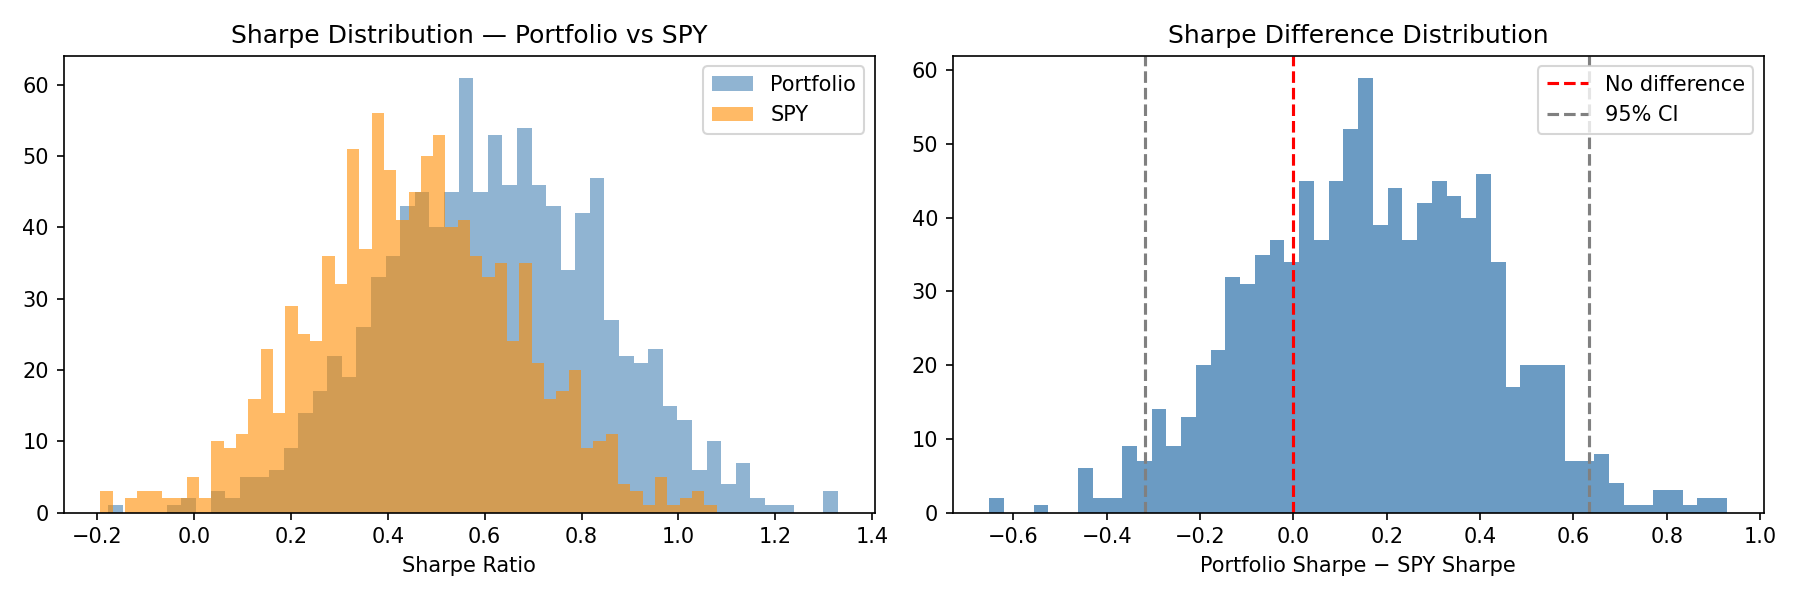
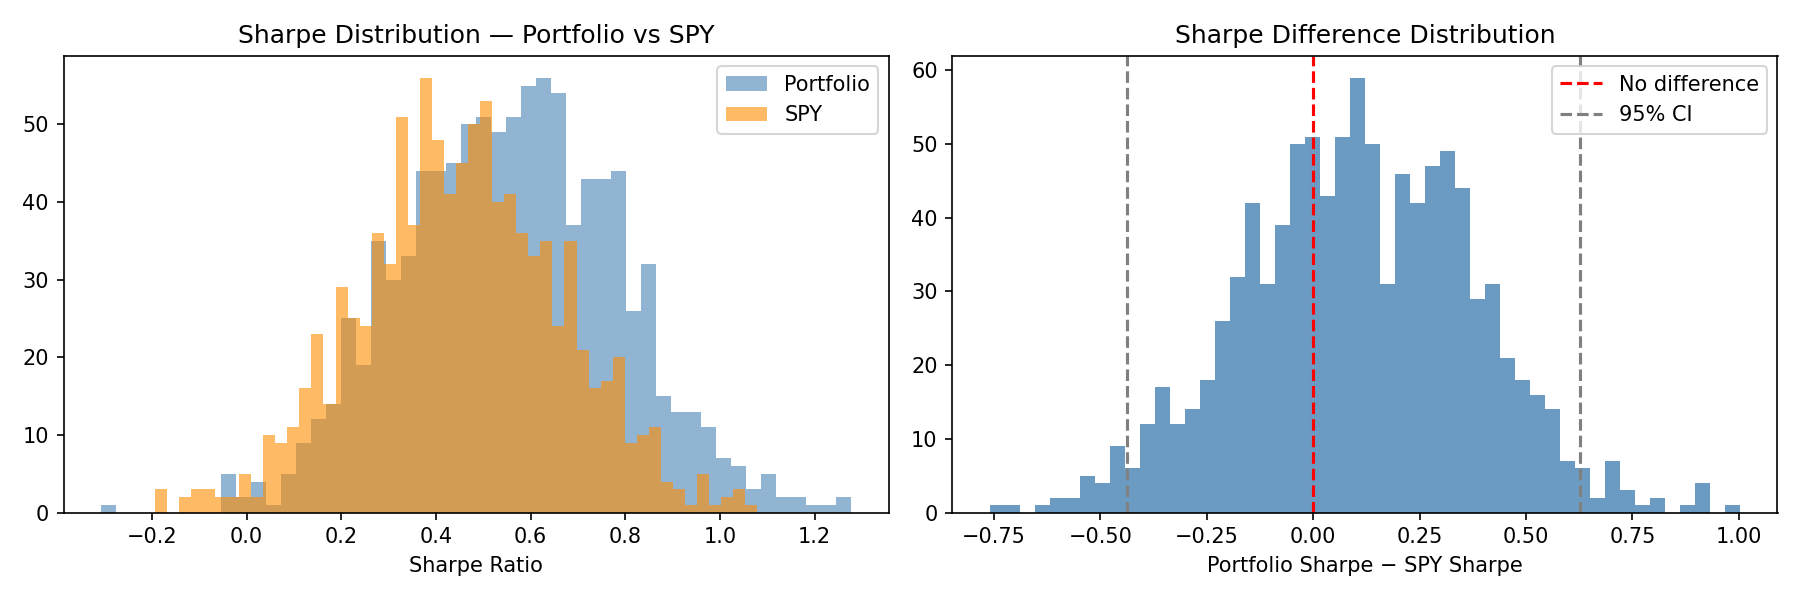
refactor: improve documentation and code clarity across multiple modules
- Simplified docstrings in `bootstrap.py`, `main.py`, and `hmm.py` for better understanding.
- Added `_cap_and_redistribute` function in `risk_parity.py` to enforce weight caps.
- Updated results in `ablation_results.csv` and `sensitivity_results.csv` for accuracy.
- Enhanced tests in `test_optimizers.py` and `test_switcher.py` for better coverage and clarity.

diff --git a/tests/test_hmm.py b/tests/test_hmm.py
@@ -13,22 +13,12 @@ from backtest.bootstrap import block_resample, block_bootstrap_indices
 
 
 def test_count_params_known():
-    # n_states=2, n_features=3
-    # transition = 2*(2-1) = 2
-    # means = 2*3 = 6
-    # covariances = 2 * 3*4//2 = 12
-    # startprob = 2-1 = 1
-    # total = 21
+    # 2 states, 3 features.
     assert count_params(2, 3) == 21
 
 
 def test_count_params_four_states():
-    # n_states=4, n_features=3
-    # transition = 4*3 = 12
-    # means = 4*3 = 12
-    # covariances = 4 * 3*4//2 = 24
-    # startprob = 3
-    # total = 51
+    # 4 states, 3 features.
     assert count_params(4, 3) == 51
 
 
@@ -180,7 +170,7 @@ def test_fit_hmm_core_flags_non_convergence_with_low_n_iter(monkeypatch, capsys)
     monkeypatch.setitem(hmm_mod.CFG["hmm"], "n_iter", 1)
     monkeypatch.setitem(hmm_mod.CFG["hmm"], "n_init", 2)
 
-    # Well-separated clusters so a real fit needs more than 1 EM step to settle.
+
     rng = np.random.default_rng(0)
     features = rng.normal(0, 1, (900, 3))
     features[:300, 0] += 3
@@ -211,10 +201,7 @@ def test_fit_hmm_core_converged_true_with_ample_n_iter(monkeypatch):
 
 
 def test_label_states_uses_feature_cols_when_columns_reordered():
-    # means_ columns are in order [mean_corr, spy_vol, spy_return] here -
-    # the opposite of the assumed default [spy_return, spy_vol, mean_corr].
-    # Positional fallback (index 0/1) would rank by mean_corr - 0.5*spy_vol,
-    # giving the wrong answer. Name-based lookup should get it right regardless.
+
     model = MagicMock()
     model.means_ = np.array([
         [0.6, 0.03, -0.002],
@@ -235,9 +222,7 @@ def test_label_states_uses_feature_cols_when_columns_reordered():
 
 
 def test_label_states_skew_kurt_variant_ranks_by_return_only():
-    # skew_kurt ablation variant has columns [spy_return, spy_skew, spy_kurt] -
-    # no spy_vol at all. Should rank purely by return, NOT silently treat
-    # spy_skew as if it were volatility (that was the bug).
+
     model = MagicMock()
     model.means_ = np.array([
         [-0.002, 0.5, 3.0],
@@ -255,8 +240,7 @@ def test_label_states_skew_kurt_variant_ranks_by_return_only():
 
 
 def test_label_states_no_feature_cols_falls_back_to_positional():
-    # Backward compatibility: existing callers that don't pass feature_cols
-    # keep the original [index 0, index 1] behavior.
+
     model = MagicMock()
     model.means_ = np.array([
         [-0.002, 0.03],
@@ -271,9 +255,7 @@ def test_label_states_no_feature_cols_falls_back_to_positional():
 
 
 def test_block_bootstrap_indices_reused_gives_paired_consistency():
-    # Calling block_bootstrap_indices ONCE and applying the result to two
-    # different series (paired resampling) should select the same positions
-    # from both - this is what makes a paired block bootstrap valid.
+
     rng = np.random.default_rng(7)
     indices = block_bootstrap_indices(n=100, block_length=10, rng=rng)
 
@@ -287,8 +269,7 @@ def test_block_bootstrap_indices_reused_gives_paired_consistency():
 
 
 def test_block_bootstrap_indices_matches_block_resample():
-    # block_resample() should produce values consistent with directly
-    # indexing via block_bootstrap_indices with the same seed.
+
     returns = pd.Series(np.arange(200, dtype=float))
 
     rng1 = np.random.default_rng(99)
@@ -319,9 +300,7 @@ def test_select_n_states_return_models_gives_matching_models():
 
 
 def test_select_n_states_returned_model_matches_a_fresh_refit():
-    # The whole point of return_models: the returned model for the winning
-    # n_states should be usable directly, with no need to refit - confirm it's
-    # identical to what a fresh fit_hmm_with_n call would produce.
+
     from models.hmm import fit_hmm_with_n
 
     rng = np.random.default_rng(0)

diff --git a/tests/test_switcher.py b/tests/test_switcher.py
@@ -34,7 +34,7 @@ def test_concentration_guard_triggers_on_crash_regime_extreme_weights():
     regimes_df = make_single_day_regime(date, "Crash")
 
     extreme = np.zeros(len(ASSETS))
-    extreme[ASSETS.index("IEF")] = 1.0  # 100% concentrated in one safe haven
+    extreme[ASSETS.index("IEF")] = 1.0
 
     with patch.dict(switcher_mod.OPTIMIZER_MAP, {"Crash": lambda r: extreme}):
         weights = switcher_mod.compute_weights(regimes_df, returns)
@@ -43,11 +43,7 @@ def test_concentration_guard_triggers_on_crash_regime_extreme_weights():
     assert np.max(w) < switcher_mod.CONCENTRATION_GUARD, (
         "Guard should have replaced the 100%-concentrated Crash allocation"
     )
-    # Fallback is now scoped to the Crash regime's own safe-haven subset
-    # (IEF/TLT/GLD), equal-weighted - NOT the full 8-asset universe. Falling
-    # back to the full universe would inject equity/risk exposure at exactly
-    # the moment Crash exists to avoid it (see audit §2.6 - this was a
-    # deliberate fix, not the original documented behavior).
+
     safe_havens = switcher_mod.SAFE_HAVEN_ASSETS
     expected = np.zeros(len(ASSETS))
     weight_each = 1.0 / len(safe_havens)
@@ -83,7 +79,7 @@ def test_concentration_guard_triggers_on_bull_regime_extreme_weights(monkeypatch
     extreme = np.zeros(len(ASSETS))
     extreme[ASSETS.index("QQQ")] = 1.0
 
-    # Bull bypasses OPTIMIZER_MAP and calls max_sharpe directly (see switcher.py).
+    # Bull uses max_sharpe directly.
     monkeypatch.setattr(switcher_mod, "max_sharpe", lambda r, rf: extreme)
 
     weights = switcher_mod.compute_weights(regimes_df, returns)
@@ -106,7 +102,7 @@ def test_concentration_guard_does_not_trigger_on_diversified_weights():
 
 
 def test_concentration_guard_fallback_helper_directly():
-    assets = switcher_mod.OPTIMIZER_MAP.keys()  # just to touch the module
+    assets = switcher_mod.OPTIMIZER_MAP.keys()
     all_assets = ["SPY", "TLT", "GLD", "EFA", "IEF", "QQQ", "LQD", "VNQ"]
 
     crash_fallback = switcher_mod._concentration_guard_fallback("Crash", all_assets)
@@ -116,6 +112,6 @@ def test_concentration_guard_fallback_helper_directly():
         if a not in switcher_mod.SAFE_HAVEN_ASSETS:
             assert crash_fallback[all_assets.index(a)] == 0.0
 
-    # Non-Crash regimes still fall back to full-universe equal-weight
+    # Non-Crash regimes fall back to full-universe equal-weight.
     bull_fallback = switcher_mod._concentration_guard_fallback("Bull", all_assets)
     assert np.allclose(bull_fallback, 1.0 / len(all_assets))

diff --git a/tests/test_optimizers.py b/tests/test_optimizers.py
@@ -147,3 +147,51 @@ def test_compute_weights_equal_weight_when_history_too_short():
     short_returns = returns.iloc[:50]
     w = compute_weights(make_regimes(short_returns, "Bull"), short_returns).dropna()
     assert np.allclose(w.values, 1.0 / N_ASSETS, atol=1e-6)
+    
+def make_correlated_returns(n: int = 750, seed: int = 11) -> pd.DataFrame:
+
+    rng = np.random.default_rng(seed)
+    annual_vols = np.array([0.16, 0.12, 0.15, 0.17, 0.06, 0.20, 0.08, 0.19])
+    corr = np.full((N_ASSETS, N_ASSETS), 0.35)
+    np.fill_diagonal(corr, 1.0)
+    daily_vols = annual_vols / np.sqrt(252)
+    cov_daily = np.outer(daily_vols, daily_vols) * corr
+    dates = pd.date_range("2015-01-01", periods=n, freq="B")
+    data = rng.multivariate_normal(mean=np.zeros(N_ASSETS), cov=cov_daily, size=n)
+    return pd.DataFrame(data, index=dates, columns=ASSETS)
+
+
+def test_risk_parity_achieves_equal_risk_contribution_with_correlated_assets():
+
+    from optimization.risk_parity import estimate_covariance
+    returns = make_correlated_returns()
+    sigma = estimate_covariance(returns)
+
+    w = risk_parity(returns)
+    assert w.max() < MAX_POSITION + 1e-6
+
+    risk_contrib = w * (sigma @ w)
+    risk_contrib_pct = risk_contrib / risk_contrib.sum()
+    spread = risk_contrib_pct.max() - risk_contrib_pct.min()
+    assert spread < 0.02, (
+        f"Risk contributions should be approximately equal even when the "
+        f"natural solution scale exceeds 1.0 per asset, got spread of "
+        f"{spread:.4f} across assets: {risk_contrib_pct}"
+    )
+
+
+def test_cap_and_redistribute_enforces_cap():
+    from optimization.risk_parity import _cap_and_redistribute
+    w = np.array([0.75, 0.10, 0.08, 0.07])
+    capped = _cap_and_redistribute(w, cap=0.6)
+    assert capped.max() <= 0.6 + 1e-9
+    assert capped.sum() == pytest.approx(1.0, abs=1e-9)
+    # excess from the capped asset should be redistributed proportionally
+    assert capped[1] > w[1] and capped[2] > w[2] and capped[3] > w[3]
+
+
+def test_cap_and_redistribute_noop_when_already_compliant():
+    from optimization.risk_parity import _cap_and_redistribute
+    w = np.array([0.3, 0.3, 0.2, 0.2])
+    capped = _cap_and_redistribute(w, cap=0.6)
+    assert np.allclose(capped, w)

diff --git a/models/hmm.py b/models/hmm.py
@@ -45,10 +45,6 @@ def _fit_hmm_core(features_scaled: np.ndarray, n_states: int) -> GaussianHMM | N
     chosen = best_model if best_model is not None else last_model
 
     if chosen is not None:
-        # hmmlearn's own `monitor_.converged` is True whenever `iter == n_iter`
-        # OR the tolerance was met - i.e. it also counts "ran out of iterations"
-        # as converged. We only want the genuine signal: did the log-likelihood
-        # improvement actually drop below tol before the budget ran out?
         history = chosen.monitor_.history
         tol = chosen.monitor_.tol
         chosen.converged_ = bool(
@@ -225,8 +221,7 @@ def label_states(model: GaussianHMM, feature_cols: list[str] | None = None) -> d
         return_idx = feature_cols.index("spy_return")
         vol_idx = feature_cols.index("spy_vol") if "spy_vol" in feature_cols else None
     else:
-        # Backward-compatible fallback for callers that don't pass feature_cols:
-        # assumes the original [spy_return, spy_vol, ...] column order.
+        # Fallback for callers that do not pass feature_cols.
         return_idx = 0
         vol_idx = 1 if model.means_.shape[1] > 1 else None
 
@@ -256,13 +251,11 @@ def label_states(model: GaussianHMM, feature_cols: list[str] | None = None) -> d
     return {ranking[i]: f"State{i}" for i in range(n)}
 
 def get_fitted_transition_matrix(model: GaussianHMM, state_labels: dict) -> pd.DataFrame:
-    """Reads a single fitted model's own theoretical transmat_ parameter directly.
+    """Return the fitted model's transition matrix in regime-label order.
 
-    This is distinct from main.compute_empirical_transition_matrix(), which counts
-    actual observed regime-label transitions across a walk-forward run (possibly
-    spanning many retrained models). The two are not interchangeable and will not
-    generally agree - this one reflects what one specific model learned, the other
-    reflects what actually happened across the full walk-forward output."""
+    This is distinct from main.compute_empirical_transition_matrix(), which
+    counts observed transitions across a walk-forward run.
+    """
     n = model.n_components
     labels = [state_labels[i] for i in range(n)]
     transmat = pd.DataFrame(

diff --git a/optimization/risk_parity.py b/optimization/risk_parity.py
@@ -11,6 +11,21 @@ MAX_POSITION = CFG["optimizer"]["max_position"]
 def estimate_covariance(returns: pd.DataFrame) -> np.ndarray:
     return LedoitWolf().fit(returns).covariance_ * TRADING_DAYS
 
+def _cap_and_redistribute(weights: np.ndarray, cap: float, max_iter: int = 20) -> np.ndarray:
+
+    w = weights.copy()
+    for _ in range(max_iter):
+        over = w > cap
+        if not np.any(over):
+            break
+        excess = (w[over] - cap).sum()
+        w[over] = cap
+        under = ~over
+        if not np.any(under):
+            return np.ones(len(w)) / len(w)
+        w[under] += excess * (w[under] / w[under].sum())
+    return w / w.sum()
+
 def risk_parity(returns: pd.DataFrame) -> np.ndarray:
     sigma = estimate_covariance(returns)
     n = sigma.shape[0]
@@ -22,9 +37,9 @@ def risk_parity(returns: pd.DataFrame) -> np.ndarray:
     )
     
 
+
     constraints = [
     w >= 0.01,
-    w <= MAX_POSITION,
     ]
     
     prob = cp.Problem(objective, constraints)
@@ -35,4 +50,5 @@ def risk_parity(returns: pd.DataFrame) -> np.ndarray:
     
     weights = np.clip(w.value, 0, None)
     weights = weights / np.sum(weights)
+    weights = _cap_and_redistribute(weights, MAX_POSITION)
     return weights

diff --git a/tests/test_scripts.py b/tests/test_scripts.py
@@ -72,9 +72,7 @@ from data.process import compute_features, compute_returns
 from data.fetch import fetch_prices
 from config import load_config
 
-# test_ablation_run_single_keys removed: fully superseded by
-# test_ablation_run_single_does_not_touch_production_paths below, which
-# already calls run_single with synthetic data and checks these same keys.
+# test_ablation_run_single_keys was removed after being superseded.
 
 from models.hmm import _fit_hmm_core, forward_filter
 from sklearn.preprocessing import StandardScaler
@@ -118,10 +116,7 @@ def test_ablation_run_single_does_not_touch_production_paths(monkeypatch):
     )
     rf = pd.Series(0.0001, index=dates)
 
-    # Point every path run_single could plausibly write to at nonexistent
-    # files. If the old bug (writing features/returns/regimes to disk) were
-    # still present, this would either raise (parent dir missing) or the
-    # existence assertions below would catch it.
+    # Point all writable paths at nonexistent files so accidental writes fail.
     bogus_paths = {
         "features": "/tmp/should_not_be_written_features.parquet",
         "returns": "/tmp/should_not_be_written_returns.parquet",

diff --git a/backtest/bootstrap.py b/backtest/bootstrap.py
@@ -11,15 +11,10 @@ N_ITERATIONS = CFG["bootstrap"]["n_iterations"]
 RANDOM_STATE = CFG["bootstrap"]["random_state"]
 
 def block_bootstrap_indices(n: int, block_length: int, rng: np.random.Generator) -> np.ndarray:
-    """Generate one set of block-bootstrap resample indices of length n.
+    """Generate block-bootstrap resample indices of length n.
 
-    Reusing the SAME returned array on multiple series (e.g. portfolio and
-    benchmark) preserves their joint/dependency structure - this is what makes
-    a paired block bootstrap valid, as opposed to resampling each series
-    independently. Previously duplicated inline in run_bootstrap() here and in
-    scripts/stress_tests.py::paired_block_bootstrap() - the two implementations
-    later diverged into different (and in one case, buggy) p-value formulas,
-    which is a large part of why this is now factored out into one place."""
+    Reuse the same indices across related series to preserve dependence.
+    """
     indices = []
     while len(indices) < n:
         start = rng.integers(0, n - block_length + 1)

diff --git a/main.py b/main.py
@@ -62,12 +62,11 @@ def compute_regime_runs(regimes_df: pd.DataFrame) -> pd.DataFrame:
 
 
 def compute_empirical_transition_matrix(runs_df: pd.DataFrame, labels: list[str]) -> pd.DataFrame:
-    """Empirical, run-based transition matrix: counts actual observed regime-label
-    transitions in a walk-forward output (% of exits from each regime).
+    """Build an empirical transition matrix from observed regime runs.
 
-    This is distinct from models.hmm.get_fitted_transition_matrix(), which reads
-    a single HMM model's own theoretical transmat_ parameter directly - the two
-    are not interchangeable and will not generally agree."""
+    This differs from models.hmm.get_fitted_transition_matrix(), which reads a
+    fitted model's theoretical transition matrix.
+    """
     trans = pd.DataFrame(0, index=labels, columns=labels)
     for i in range(len(runs_df) - 1):
         from_r = runs_df.iloc[i]["regime"]

diff --git a/tests/test_main.py b/tests/test_main.py
@@ -25,8 +25,7 @@ def test_compute_regime_runs_single_regime():
 
 
 def test_compute_empirical_transition_matrix_known_case():
-    # Bull -> Bear -> Bull -> Crash: two exits from Bull (both to different
-    # targets is impossible here, both go... let's make it unambiguous.
+    # Bull -> Bear -> Bull -> Crash: two Bull exits, one to Bear and one to Crash.
     runs_df = pd.DataFrame({
         "regime": ["Bull", "Bear", "Bull", "Crash"],
         "duration": [5, 3, 2, 4],

diff --git a/tests/test_engine.py b/tests/test_engine.py
@@ -163,8 +163,7 @@ def test_run_accepts_returns_df_directly_without_reading_disk(tmp_path, monkeypa
         "is_retrain_date": [False] * 60,
     }, index=idx)
 
-    # Point CFG at a path that does not exist - if run() tried to fall back
-    # to reading from disk instead of using returns_df, this would raise.
+
     nonexistent_path = str(tmp_path / "does_not_exist.parquet")
     monkeypatch.setitem(engine_mod.CFG["paths"], "returns", nonexistent_path)
 

diff --git a/tests/conftest.py b/tests/conftest.py
@@ -4,7 +4,7 @@ from unittest.mock import patch
 
 MOCK_RF_VALUE = 0.0001
 
-# Wide range intentionally covers any synthetic test data regardless of date thus no usage of CFG
+# Wide date range covers synthetic test data without depending on CFG.
 MOCK_RF_INDEX = pd.bdate_range("1990-01-01", "2050-01-01")
 
 @pytest.fixture(autouse=True)
